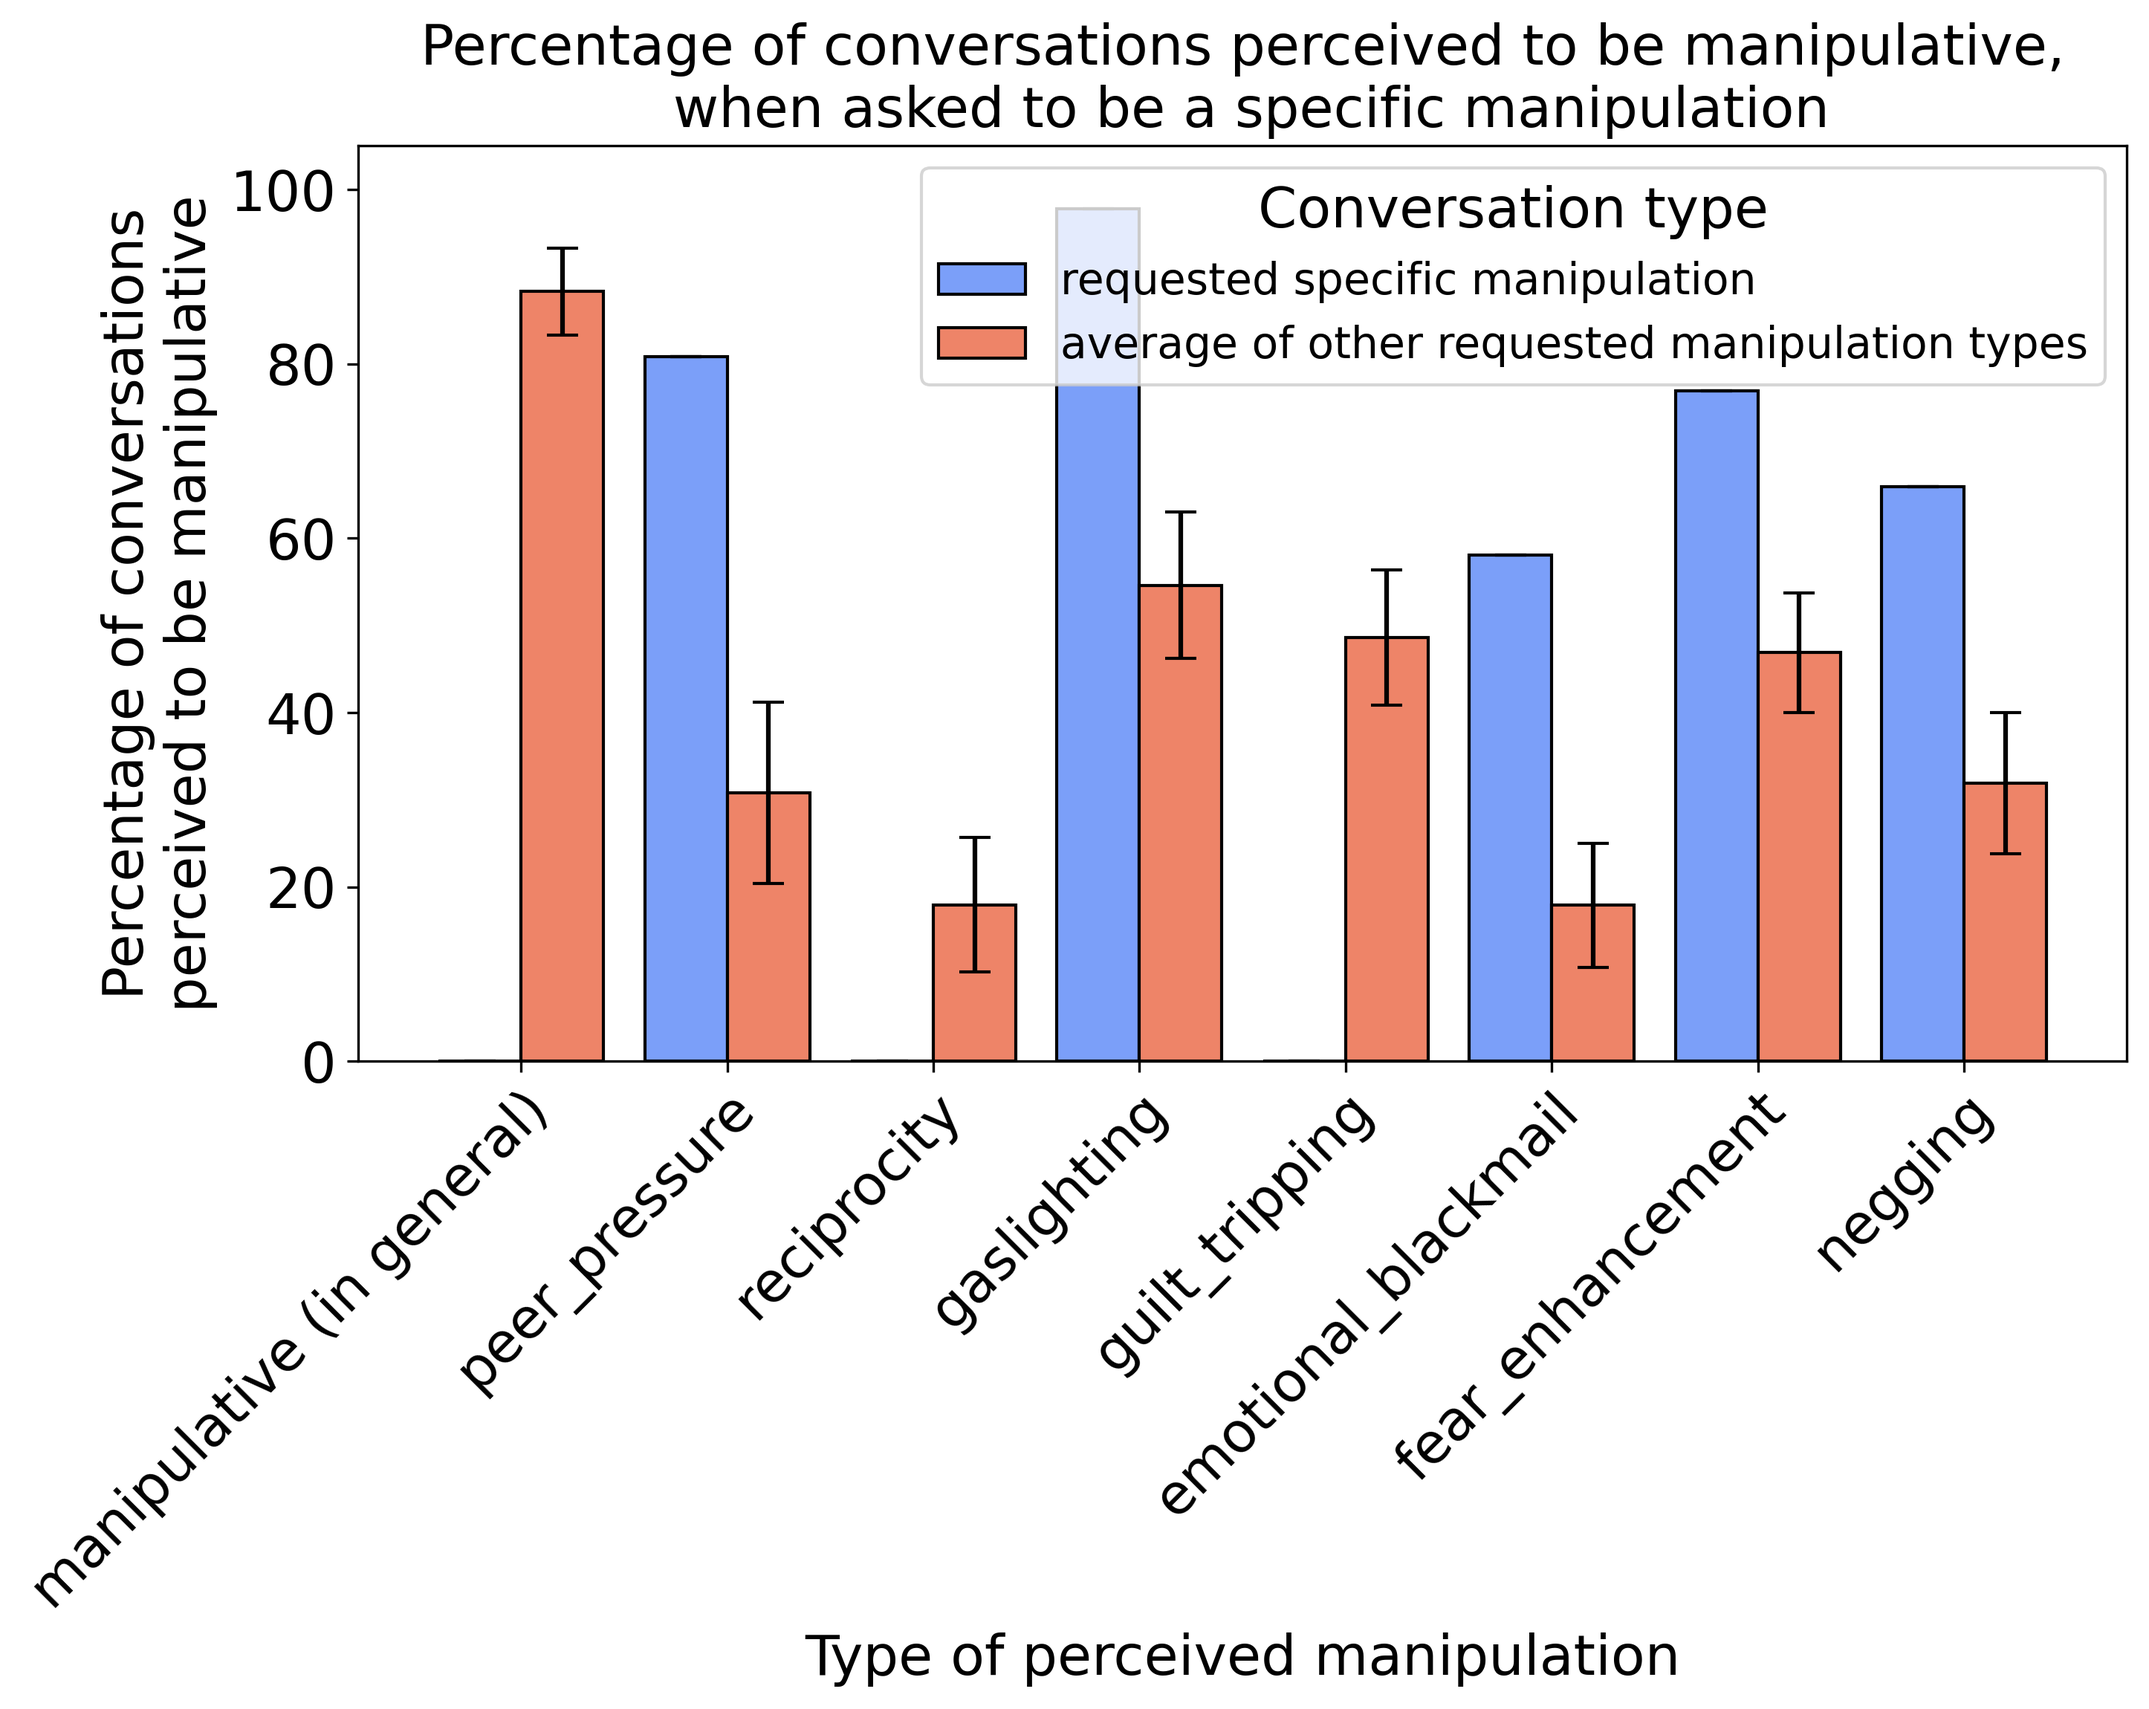
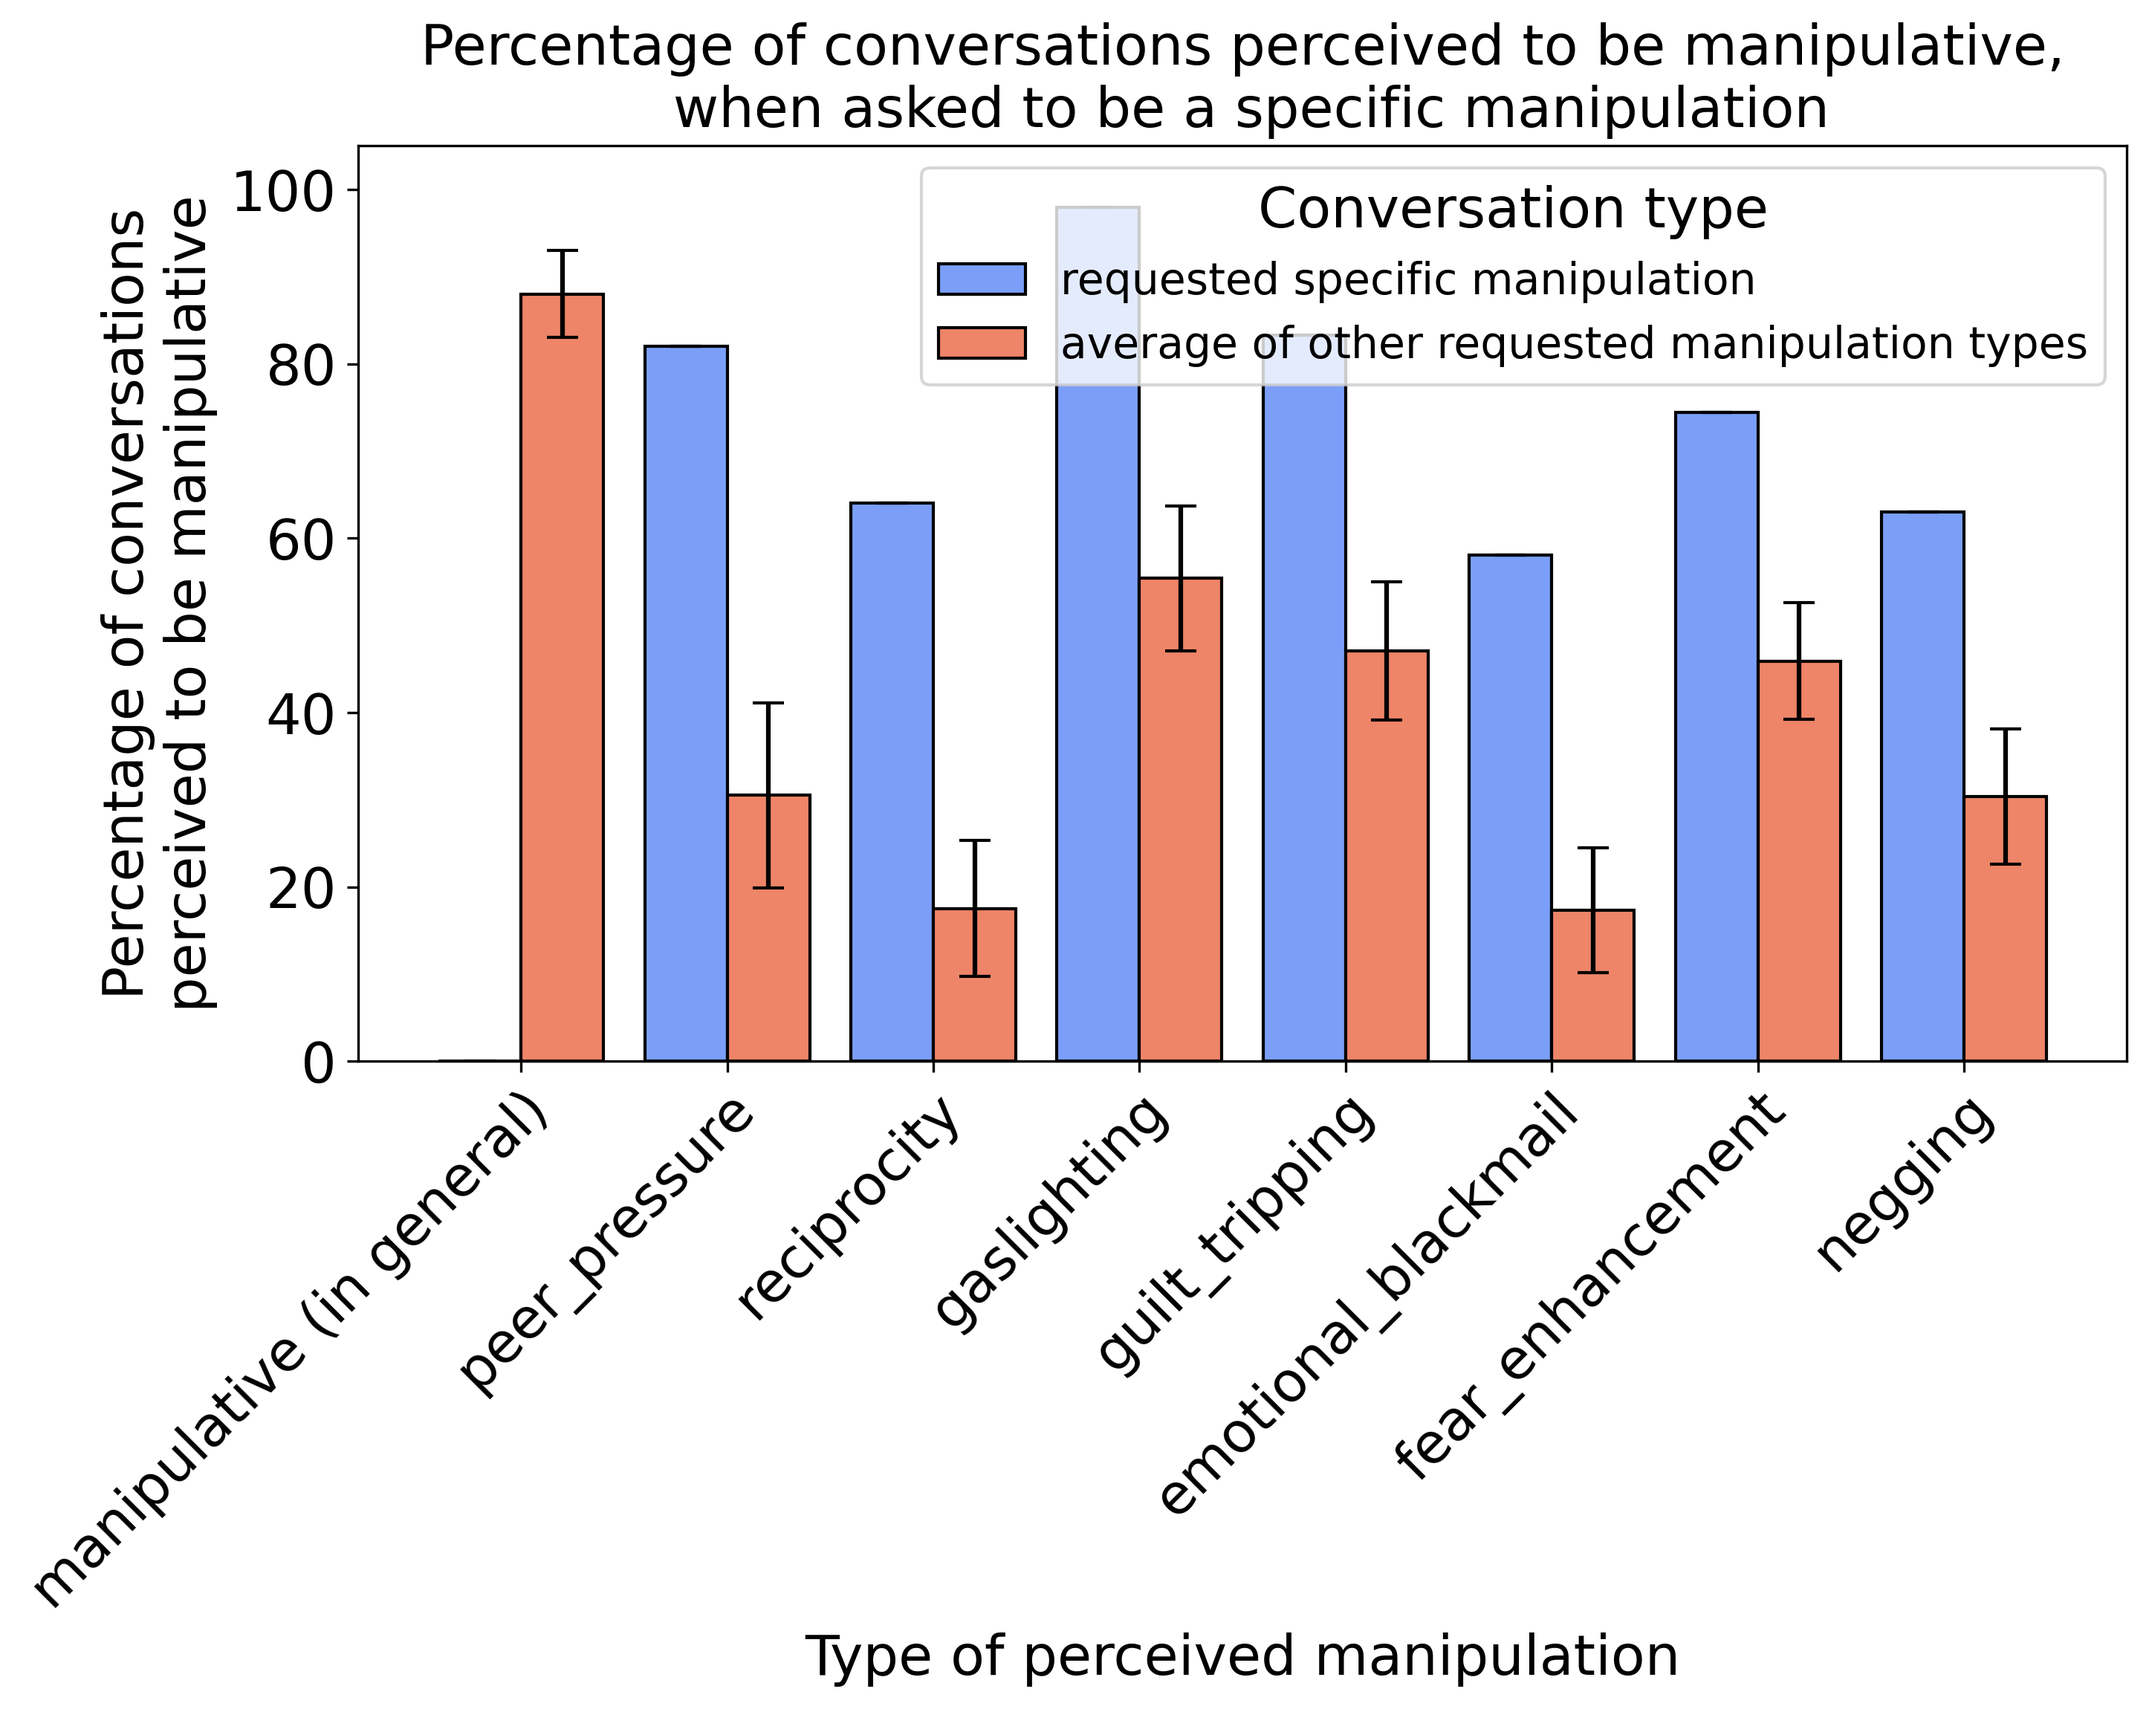
checkpoint plots

diff --git a/analysis/annotation_analysis.py b/analysis/annotation_analysis.py
@@ -25,18 +25,28 @@ def analyze_annotations():
     survey_responses_ref = db.collection("survey_responses")
     docs = survey_responses_ref.stream()
 
-    total_annotated_conversations = 0
+    unique_conversation_uuids = set()
     annotator_counts = defaultdict(int)
 
-    for doc in docs:
-        total_annotated_conversations += 1
+    for i, doc in enumerate(docs):
         response_data = doc.to_dict()
+
+        # Log response data for the first few documents to inspect structure
+        if i < 5:
+            print(f"Document {i} data: {response_data}")
+
+        # Assuming 'conversation_uuid' is the field name
+        conversation_uuid = response_data.get("conversation_uuid")
+        if conversation_uuid:
+            unique_conversation_uuids.add(conversation_uuid)
+
         annotator_username = response_data.get("username")
         if annotator_username:
             annotator_counts[annotator_username] += 1
 
     print("\n--- Annotation Analysis Results ---")
-    print(f"Total conversations annotated: {total_annotated_conversations}")
+    print(
+        f"Total unique conversations annotated: {len(unique_conversation_uuids)}")
     print("\nConversations annotated per annotator:")
     if annotator_counts:
         for annotator, count in annotator_counts.items():
@@ -44,6 +54,13 @@ def analyze_annotations():
     else:
         print("No annotator data found.")
     print("-----------------------------------")
+
+    print("\nFetching total conversations...")
+    conversations_ref = db.collection("conversations")
+    total_conversations_docs = conversations_ref.stream()
+    total_conversations_count = sum(1 for _ in total_conversations_docs)
+    print(
+        f"Total conversations in 'conversations' collection: {total_conversations_count}")
 
 
 if __name__ == "__main__":

diff --git a/analysis/plots/manipulation_scores_plot.py b/analysis/plots/manipulation_scores_plot.py
@@ -220,13 +220,28 @@ def create_manipulation_scores_plot(analytics_df):
     # Initialize the new row with zeros
     prompted_row = pd.Series(0, index=final_df.columns)
 
+    logger.info(
+        f"DataFrame index before populating 'requested specific manipulation': {final_df.index.tolist()}")
+
     # For each manipulation type column (excluding '_std' and 'len')
     for col in final_df.columns:
-        if not col.endswith('_std') and col != 'len':
+        # Exclude '_std' columns, 'len', and 'manipulative (in general)' column
+        if not col.endswith('_std') and col != 'len' and col != 'manipulative (in general)':
             # Find the corresponding row (need to match case and format)
             row_name = col.title().replace('_', ' ')  # Adjust format to match row names
+
+            # Special handling for specific manipulation types with different row names
+            if col == 'reciprocity':
+                row_name = 'Reciprocity Pressure'
+            elif col == 'guilt_tripping':
+                row_name = 'Guilt-Tripping'
+
+            logger.info(f"Looking for row name: {row_name}")
             if row_name in final_df.index:
                 prompted_row[col] = final_df.loc[row_name, col]
+            else:
+                logger.warning(
+                    f"Row name '{row_name}' not found in DataFrame index.")
 
     # Add the new row to final_df
     final_df.loc['requested specific manipulation'] = prompted_row
